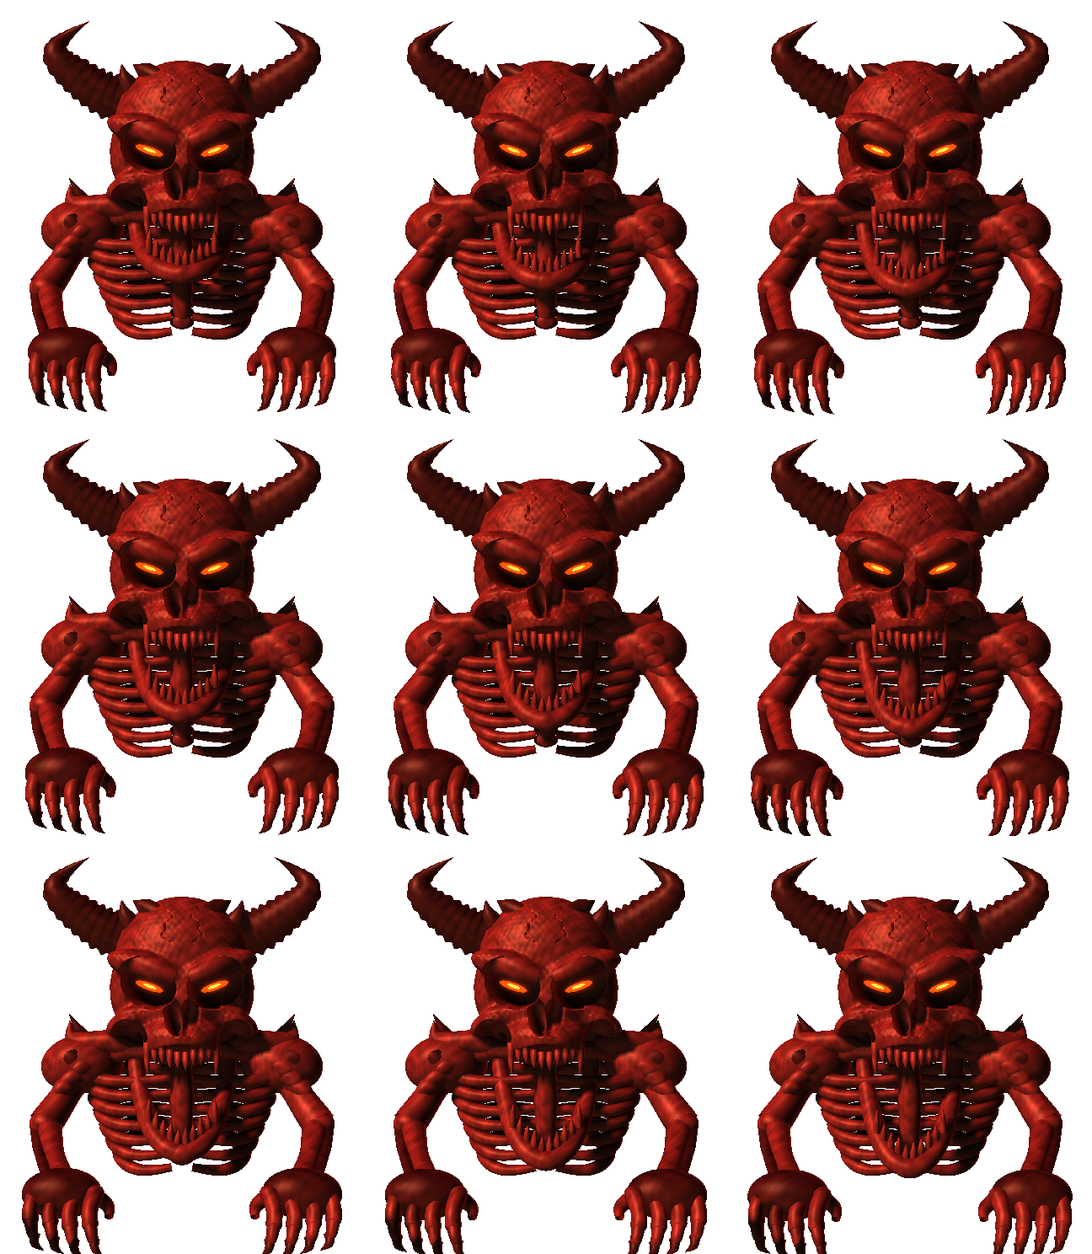
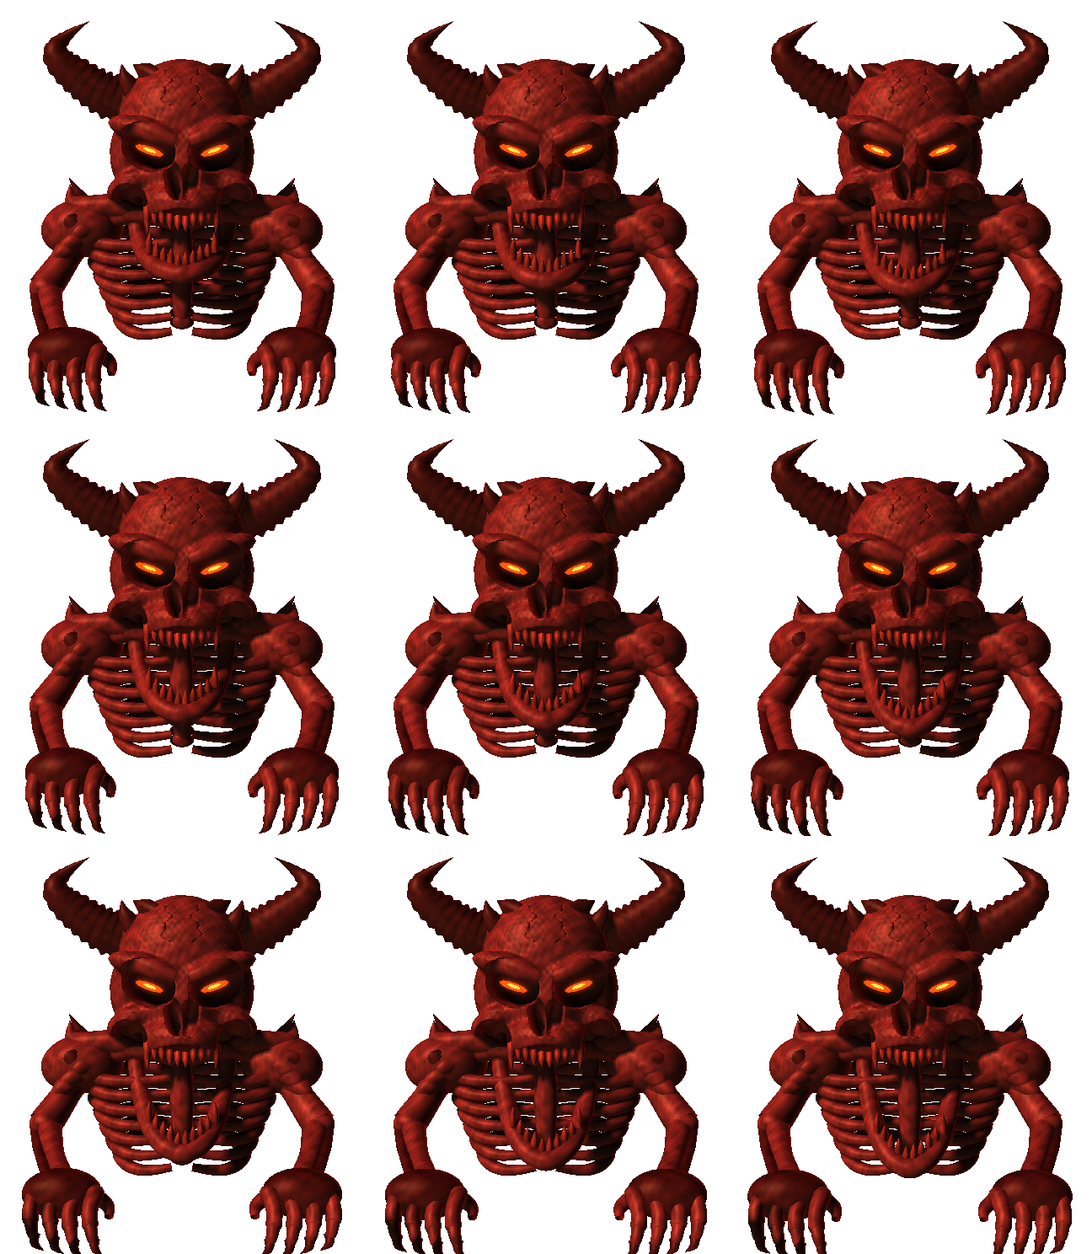
Refine console strip, Demon anatomy and tape detent selectors; clarify Hush noise limit

diff --git a/Source/PluginEditor.cpp b/Source/PluginEditor.cpp
@@ -121,7 +121,7 @@ void KnobCell::resized() {
         slider.setBounds((getWidth()-size)/2,0,size,size);return;
     }
     if(bool(slider.getProperties().getWithDefault("consoleCell",false))&&!compact_){
-        const int size=juce::jmax(1,juce::jmin(getWidth()-2,getHeight()-20,bool(slider.getProperties().getWithDefault("dopeRow",false))?72:43));
+        const int size=juce::jmax(1,juce::jmin(getWidth()-2,getHeight()-20,bool(slider.getProperties().getWithDefault("dopeRow",false))?72:bool(slider.getProperties().getWithDefault("sslGain",false))?49:43));
         slider.setBounds((getWidth()-size)/2,juce::jmax(0,(getHeight()-size-20)/2),size,size);return;
     }
     if(bool(slider.getProperties().getWithDefault("hushFader",false))&&!compact_){slider.setBounds(5,3,getWidth()-10,getHeight()-36);return;}
@@ -144,7 +144,7 @@ bool KnobCell::controlGeometryValid() const noexcept {
     if(b.isEmpty()||!getLocalBounds().contains(b))return false;
     if(bool(slider.getProperties().getWithDefault("sslAux",false)))return b.getWidth()==b.getHeight()&&b.getRight()+15<getWidth();
     if(bool(slider.getProperties().getWithDefault("sslSwitch",false)))return b.getWidth()==b.getHeight()&&b.getBottom()+10<=getHeight();
-    if(bool(slider.getProperties().getWithDefault("consoleCell",false)))return b.getWidth()==b.getHeight()&&b.getWidth()<=(bool(slider.getProperties().getWithDefault("dopeRow",false))?72:43)&&b.getBottom()+18<=getHeight();
+    if(bool(slider.getProperties().getWithDefault("consoleCell",false)))return b.getWidth()==b.getHeight()&&b.getWidth()<=(bool(slider.getProperties().getWithDefault("dopeRow",false))?72:bool(slider.getProperties().getWithDefault("sslGain",false))?49:43)&&b.getBottom()+18<=getHeight();
     if(bool(slider.getProperties().getWithDefault("hushFader",false))&&!compact_)return b.getBottom()+28<=getHeight();
     if(b.getWidth()!=b.getHeight())return false;
     if(compact_)return b.getWidth()<=48;
@@ -333,7 +333,7 @@ void SlotComponent::rebuild() {
             if((type==SkellDope||type==SkellMixHead||type==SkellDemon||type==SkellSSL)&&k.steps==2){
                 cell->slider.getProperties().set("colorSwitch",true);
                 cell->slider.getProperties().set("dopeSwitch",type==SkellDope);
-                if(type==SkellMixHead)cell->slider.getProperties().set("tapeToggle",true);
+                if(type==SkellMixHead)cell->slider.getProperties().set("tapeSelector",true);
                 cell->slider.getProperties().set("switchLabels",juce::String(k.names));
                 cell->slider.setTooltip("Click to switch mode");
                 cell->slider.setWantsKeyboardFocus(true);
@@ -343,19 +343,21 @@ void SlotComponent::rebuild() {
                 auto previous=cell->slider.onValueChange;
                 cell->slider.onValueChange=[this,previous]{if(previous)previous();repaint(mixHeadBadgeBounds(getWidth()));};
             }
-            if(type==SkellNoise&&j==1)cell->slider.setTooltip("Noise-floor ceiling: higher values suppress louder background noise; lower values preserve quieter detail. Amount sets reduction strength.");
+            if(type==SkellNoise&&j==1)cell->slider.setTooltip("Maximum tracked noise level in dB. Raise for louder background noise; lower to protect quiet vocal detail. Amount sets suppression strength.");
             if(type==SkellNoise&&j==2)cell->slider.setTooltip("Recovery time of the attenuation as signal level changes.");
             if(type==SkellNoise&&j==0){cell->slider.getProperties().set("hushFader",true);cell->slider.setSliderStyle(juce::Slider::LinearVertical);}
             if(type==SkellSSL){
                 cell->slider.getProperties().set("consoleCell",true);
                 if(k.steps==2)cell->slider.getProperties().set("sslSwitch",true);
-                if(extIndex==SslHMQ||extIndex==SslLMQ||extIndex==SslOutput)cell->slider.getProperties().set("sslAux",true);
+                if(extIndex==SslHMQ||extIndex==SslLMQ)cell->slider.getProperties().set("sslAux",true);
+                if(!ext&&j>=1&&j<=4)cell->slider.getProperties().set("sslGain",true);
                 // Restore shared rotating Skelliere skull cap; keep compact console geometry.
                 static const unsigned caps[]={0xffa5a79e,0xffa16b3e,0xff32698f,0xff3b7650,0xffa92c31,0xffbb393b};
                 unsigned cap=ext?0xffa5a6a0:caps[j];
                 if(extIndex==SslInput)cap=0xffb6443c;
                 if(extIndex==SslOutput)cap=0xffa9aaa5;
-                if(extIndex==SslHP||extIndex==SslLP)cap=0xff51865d;
+                if(extIndex==SslHP)cap=0xff51865d;
+                if(extIndex==SslLP)cap=0xffa16b3e;
                 if(extIndex==SslHFFreq||extIndex==SslHMFreq||extIndex==SslHMQ||extIndex==SslLMFreq||extIndex==SslLMQ||extIndex==SslLFFreq)cap=0xffa9aaa5;
                 if(extIndex==SslExpThreshold)cap=0xff41865b;
                 if(extIndex==SslThreshold)cap=0xffb63a33;
@@ -525,8 +527,8 @@ void SlotComponent::paintNativeFace(Graphics& g) {
         pg.addTransform(juce::AffineTransform::scale(float(rasterScale)));
         paintOriginalSurface(pg,getLocalBounds().toFloat(),type,nativeChoice);
         if(type==SkellSSL){
-            pg.setColour(Colour(0xff111514));pg.fillRect(juce::Rectangle<float>(10,25,float(w-20),43));
-            pg.setColour(Colour(0xffa8aba4).withAlpha(.32f));pg.drawHorizontalLine(68,10.f,float(w-10));
+            pg.setColour(Colour(0xff222625));pg.fillRect(juce::Rectangle<float>(9,25,float(w-18),43));
+            pg.setColour(Colour(0xffa8aba4).withAlpha(.32f));pg.drawHorizontalLine(68,9.f,float(w-9));
             paintMonogram(pg,Rectangle<float>(16,33,14,20),Colour(0xffe0ded2));
             pg.setColour(Colour(0xffe0ded2));pg.setFont(font(16.f,true).withExtraKerningFactor(.045f));pg.drawText("SSL STRIP",36,28,w-48,23,juce::Justification::centredLeft);
             pg.setColour(Colour(0xffaab1a9));pg.setFont(font(9.5f,true).withExtraKerningFactor(.14f));pg.drawText("SKELL / E-G CHANNEL",36,49,w-48,13,juce::Justification::centredLeft);
@@ -549,7 +551,7 @@ void SlotComponent::paintNativeFace(Graphics& g) {
         const auto layout=originalLayout(type,w,editing);
         if(!layout.detail.isEmpty()){if(type==SkellDemon)paintDemonDetail(pg,layout.detail.toFloat());else if(isAirPanel(type))paintAirDetail(pg,layout.detail.toFloat(),type);else if(type==Reverb||type==Chorus)paintSpaceDetail(pg,layout.detail.toFloat(),type);else if(type==Sat||type==SoftClip||type==Eq||type==Tremolo||type==Phaser||type==Stereo||type==Transient)paintWorkshopDetail(pg,layout.detail.toFloat(),type);else paintTapeDetail(pg,layout.detail.toFloat(),type==Delay&&nativeChoice==1);}
         if(type==SkellSSL){
-            const int split=w*48/100,left=9,right=split+5,lw=split-13,rw=w-right-9;
+            const int split=w*49/100,left=9,right=split+5,lw=split-13,rw=w-right-9;
             const auto console=Rectangle<float>(8,75,float(w-16),float(tallPanelY(548)-75));
             pg.setGradientFill(juce::ColourGradient::vertical(Colour(0xff292c2d),console.getY(),Colour(0xff15191a),console.getBottom()));pg.fillRect(console);
             paintPeened(pg,console,.62f);
@@ -557,8 +559,8 @@ void SlotComponent::paintNativeFace(Graphics& g) {
             pg.setColour(Colour(0xff121715));pg.drawVerticalLine(split,75,tallPanelY(548));
             pg.setColour(Colour(0xff6c7169).withAlpha(.55f));pg.drawVerticalLine(split+1,75,tallPanelY(548));
             auto section=[&](int x,int y,int ww,const char* label){
-                y=tallPanelY(y);pg.setColour(Colour(0xff080b09).withAlpha(.66f));pg.fillRect(x,y,ww,14);pg.drawHorizontalLine(y,float(x),float(x+ww));
-                pg.setColour(Colour(0xffc5c8bb).withAlpha(.36f));pg.drawHorizontalLine(y+1,float(x),float(x+ww));
+                y=tallPanelY(y);pg.setColour(Colour(0xff121615));pg.drawHorizontalLine(y,float(x),float(x+ww));
+                pg.setColour(Colour(0xffc5c8bb).withAlpha(.58f));pg.drawHorizontalLine(y+1,float(x),float(x+ww));
                 pg.setColour(Colour(0xfff2f0e5));pg.setFont(font(9.3f,true).withExtraKerningFactor(.035f));
                 pg.drawFittedText(label,Rectangle<int>(x+2,y+2,ww-4,15),juce::Justification::centredLeft,1);
             };

diff --git a/Source/OriginalPanel.h b/Source/OriginalPanel.h
@@ -49,7 +49,7 @@ inline OriginalLayout originalLayoutBase(int type,int width,bool editing=false) 
     if(type==SkellSSL){
         // Reference console proportions: a compact left dynamics lane and a
         // slightly wider four-band EQ lane. Preserve all 27 host attachments.
-        const int split=width*48/100,left=9,right=split+5;
+        const int split=width*49/100,left=9,right=split+5;
         const int lw=split-13,rw=width-right-9;
         auto row=[&](int x,int w,int y,int h,std::initializer_list<int> ids){const int n=int(ids.size());int i=0;for(int j:ids){const int a=i*w/n,b=(i+1)*w/n;l.cells[j]={x+a,y,b-a,h};++i;}};
         auto e=[](int i){return kMaxKnobs+i;};
@@ -59,12 +59,12 @@ inline OriginalLayout originalLayoutBase(int type,int width,bool editing=false) 
         row(left,lw,305,46,{e(SslRelease),5,e(SslFast)});
         row(left,lw,370,54,{e(SslExpThreshold),e(SslExpRange)});
         row(left,lw,426,46,{e(SslExpRelease),e(SslGate)});
-        l.cells[e(SslOutput)]={left,491,lw,38};
+        l.cells[e(SslOutput)]={left,491,lw,editing?38:45};
         auto band=[&](int y,int gain,int freq,int shape){
             const int g=rw*48/100;
             l.cells[gain]={right,y+9,g,61};
             l.cells[freq]={right+g,y,rw-g,40};
-            l.cells[shape]={right+g,y+41,rw-g,32};
+            l.cells[shape]={right+g,y+40,rw-g,30};
         };
         band(100,4,e(SslHFFreq),e(SslHFBell));
         band(184,3,e(SslHMFreq),e(SslHMQ));
@@ -421,7 +421,7 @@ inline void paintTapeDetail(Graphics& g,juce::Rectangle<float> r,bool useReferen
 }
 inline void paintDemonVectorFallback(Graphics& g,juce::Rectangle<float> r,float phase=0,float level=0,bool frame=true){
     // Raise the lip to the lower chest rather than lengthening the rib cage.
-    const auto win=r.withTrimmedBottom(46.f);
+    const auto win=r.withTrimmedBottom(46.f).withTrimmedTop(9.f);
     if(frame)paintHardwarePlate(g,win,Colour(0xff341218),false,6.f,3.f);
     auto a=win.reduced(5.f);juce::Graphics::ScopedSaveState clip(g);g.reduceClipRegion(r.toNearestInt());
     g.setGradientFill(juce::ColourGradient(Colour(0xff69120d),a.getCentreX(),a.getY()+a.getHeight()*.38f,Colour(0xff130407),a.getRight(),a.getBottom(),true));g.fillRoundedRectangle(a,4);
@@ -491,7 +491,7 @@ inline const juce::Image& infernalBackdrop();
 inline void paintDemonDetail(Graphics& g,juce::Rectangle<float> r,float phase=0,float level=0,bool frame=true){
     if(!demonReliefIsValid()){paintDemonVectorFallback(g,r,phase,level,frame);return;}
     // Raise the lip to the lower chest rather than lengthening the rib cage.
-    const auto win=r.withTrimmedBottom(46.f);const auto a=win.reduced(5.f);
+    const auto win=r.withTrimmedBottom(46.f).withTrimmedTop(9.f);const auto a=win.reduced(5.f);
     if(frame){
         paintHardwarePlate(g,win,Colour(0xff381c16),false,6.f,3.f);
         g.setColour(Colour(0xffbd8150).withAlpha(.78f));g.drawRoundedRectangle(win.reduced(2.f),4.f,.9f);
@@ -507,7 +507,7 @@ inline void paintDemonDetail(Graphics& g,juce::Rectangle<float> r,float phase=0,
         for(int i=0;i<28;++i){const float x=a.getX()+float((i*43)%100)*a.getWidth()/100.f,y=a.getBottom()-std::fmod(i*23.f+phase*12.f,a.getHeight());g.setColour(Colour(0xffff7031).withAlpha(.15f+.19f*level));g.fillEllipse(x,y,1.1f,2.8f);}
     }
     const int index=juce::jlimit(0,8,int(std::round(8.f*juce::jlimit(0.f,1.f,.5f+.43f*std::sin(phase*2.7f-.7f)+.12f*level))));
-    const auto& atlas=demonReliefAtlas();const float dw=r.getWidth()+16.f,dh=dw*496.f/432.f;const auto dst=juce::Rectangle<float>(r.getCentreX()-dw*.5f,r.getBottom()-dh-9.f,dw,dh);g.setImageResamplingQuality(juce::Graphics::highResamplingQuality);g.setOpacity(1.f);
+    const auto& atlas=demonReliefAtlas();const float dw=r.getWidth()+19.f,dh=dw*496.f/432.f;const auto dst=juce::Rectangle<float>(r.getCentreX()-dw*.5f,r.getBottom()-dh-7.f,dw,dh);g.setImageResamplingQuality(juce::Graphics::highResamplingQuality);g.setOpacity(1.f);
     g.drawImage(atlas, dst.getX(),dst.getY(),dst.getWidth(),dst.getHeight(),(index%3)*432,(index/3)*496,432,496);
 }
 // Distinct patina/finish per module. Static faceplate cache only, no audio dependency.
@@ -555,7 +555,7 @@ inline const juce::Image& infernalBackdrop(){
         auto hash=[](int x,int y){unsigned v=unsigned(x)*0x9e3779b9u+unsigned(y)*0x85ebca6bu+0xf41e2u;v^=v>>16;v*=0x7feb352du;v^=v>>15;return float(v&65535u)/65535.f;};
         auto field=[&](float x,float y){const int i=int(std::floor(x)),j=int(std::floor(y));float a=x-i,b=y-j;a=a*a*(3-2*a);b=b*b*(3-2*b);return (hash(i,j)*(1-a)+hash(i+1,j)*a)*(1-b)+(hash(i,j+1)*(1-a)+hash(i+1,j+1)*a)*b;};
         auto fbm=[&](float x,float y){float n=0,amp=.54f;for(int k=0;k<7;++k){n+=amp*field(x,y);x=x*2.04f+17.f;y=y*2.03f+5.f;amp*=.49f;}return n;};
-        juce::Image::BitmapData px(im,juce::Image::BitmapData::writeOnly);for(int y=0;y<h;++y)for(int x=0;x<w;++x){const float u=float(x)/w,v=float(y)/h,warp=fbm(u*4+12,v*5+3);const float n=fbm(u*6+warp*2,v*8+warp*3),n2=fbm(u*17+warp*4,v*19+warp*4);float flame=metal::sat((fbm(u*8+warp*3,v*3.2f+warp*2)-.39f)*3.2f);float light=metal::sat((n-.25f)*1.9f+.36f*flame);float fissure=std::exp(-80.f*std::abs(n2-.51f));float halo=std::exp(-4.2f*((u-.5f)*(u-.5f)+(v-.5f)*(v-.5f)));auto c=Colour(0xff100205).interpolatedWith(Colour(0xffe3370c),metal::sat(light*halo+.23f*fissure));c=c.interpolatedWith(Colour(0xffff9827),metal::sat(fissure*.30f*halo+flame*.20f*(.4f+.6f*v)));px.setPixelColour(x,y,c);}return im;}();return image;
+        juce::Image::BitmapData px(im,juce::Image::BitmapData::writeOnly);for(int y=0;y<h;++y)for(int x=0;x<w;++x){const float u=float(x)/w,v=float(y)/h,warp=fbm(u*4+12,v*5+3);const float n=fbm(u*6+warp*2,v*8+warp*3),n2=fbm(u*17+warp*4,v*19+warp*4);float flame=metal::sat((fbm(u*10+warp*4,v*2.3f+warp*2)-.36f)*3.5f);float light=metal::sat((n-.25f)*1.9f+.36f*flame);float fissure=std::exp(-105.f*std::abs(n2-.51f));float halo=std::exp(-4.2f*((u-.5f)*(u-.5f)+(v-.5f)*(v-.5f)));auto c=Colour(0xff100205).interpolatedWith(Colour(0xffe3370c),metal::sat(light*halo+.12f*fissure));c=c.interpolatedWith(Colour(0xffff9827),metal::sat(fissure*.14f*halo+flame*.30f*(.4f+.6f*v)));px.setPixelColour(x,y,c);}return im;}();return image;
 }
 inline void paintOriginalSurface(Graphics& g,juce::Rectangle<float> r,int type,int finish) {
     const auto p=originalSpec(type,finish);

diff --git a/tools/render_demon_relief.py b/tools/render_demon_relief.py
@@ -74,16 +74,16 @@ def skull_mesh(mesh):
         return (np.sqrt((a/r[0])**2+(b/r[1])**2+(d/r[2])**2)-1)*min(r)
     def union(a,b,k=.045):
         h=np.maximum(k-np.abs(a-b),0)/k;return np.minimum(a,b)-h*h*k*.25
-    s=e((0,.47,.08),(.48,.415,.35))
-    s=union(s,e((0,.20,.19),(.345,.29,.30)))
+    s=e((0,.47,.08),(.455,.425,.35))
+    s=union(s,e((0,.20,.19),(.33,.285,.30)))
     s=union(s,e((0,.64,.19),(.115,.15,.16)),.035)
     s=union(s,e((0,-.018,.335),(.295,.145,.23)))
     for side in (-1,1):
-        s=union(s,e((side*.345,.095,.24),(.184,.081,.185),-side*.42))
-        s=union(s,e((side*.235,.405,.35),(.267,.096,.155),side*.24),.025)
+        s=union(s,e((side*.345,.095,.24),(.178,.087,.185),-side*.42))
+        s=union(s,e((side*.235,.405,.35),(.258,.082,.155),side*.24),.025)
         s=union(s,e((side*.365,.29,.09),(.145,.24,.24)),.03)
         # Outer edge of the orbit higher, inner lower: threatening brow.
-        s=np.maximum(s,-e((side*.228,.305,.445),(.196,.146,.40),side*.32))
+        s=np.maximum(s,-e((side*.228,.305,.445),(.192,.137,.40),side*.32))
         s=np.maximum(s,-e((side*.345,-.015,.415),(.132,.104,.245),side*.30))
         s=np.maximum(s,-e((side*.048,.105,.487),(.062,.12,.205),-side*.24))
     s=np.maximum(s,-e((0,-.188,.53),(.29,.138,.27)))
@@ -146,7 +146,7 @@ def build_static():
     for side in (-1,1):
         # Small hot eyes deep inside true sockets.
         # Sharply angled heavy brows and thin molten slits, not round pupils.
-        tube(m,[(side*.055,.342,.438),(side*.18,.386,.445),(side*.315,.435,.375),(side*.435,.412,.25)],[.048,.071,.077,.031],0,25,18)
+        tube(m,[(side*.055,.342,.438),(side*.18,.386,.445),(side*.315,.435,.375),(side*.435,.412,.25)],[.044,.064,.069,.031],0,25,18)
         ellipsoid(m,(side*.222,.300,.275),(.098,.024,.028),1,side*.30)
         ellipsoid(m,(side*.217,.299,.302),(.046,.010,.013),4,side*.30)
         # Sharper zygomatic spurs and brow ridge, receding in the temple.
@@ -157,7 +157,7 @@ def build_static():
     # Upper teeth along a curved dental arch; long outer canines.
     for i in range(10):
         x=(i-4.5)*.050;z=.520-.095*(abs(x)/.225)**1.5;y=-.106+.014*abs(i-4.5)
-        l=.185 if i in (0,9) else .086+.014*(i%2)
+        l=.151 if i in (0,9) else .075+.009*(i%2)
         tube(m,[(x,y,z),(x,y-l*.53,z+.014),(x*.98,y-l,z+.002)],[.027,.022,.004],2,10,12)
     # Bring the skull toward the listener; keep the horns anchored to the cranium.
     for k in range(head_start,len(m.v)):
@@ -177,7 +177,7 @@ def add_jaw(m,open_amt):
     ellipsoid(m,pose((0,-.423,.53)),(.10,.063,.059),0)
     for i in range(10):
         x=(i-4.5)*.047;z=.523-.085*(abs(x)/.22)**1.4;y=-.386+.018*abs(i-4.5)
-        l=.13 if i in (0,9) else .077+.012*(i%2)
+        l=.113 if i in (0,9) else .069+.009*(i%2)
         tube(m,[pose((x,y,z)),pose((x,y+l*.52,z+.008)),pose((x*.98,y+l,z+.001))],[.026,.022,.004],2,10,12)
 
 def add_hands(m,amt):
@@ -242,11 +242,13 @@ def render(mesh):
     # Pitted, ridged bone rather than polished plastic. Multi-frequency material
     # variation is spatially stable over all nine animation frames.
     pore=np.sin(pp[:,0]*113+np.sin(pp[:,1]*57))*np.sin(pp[:,1]*127+np.sin(pp[:,2]*63))*np.sin(pp[:,2]*131+pp[:,0]*61)
-    texture=.83+.10*np.sin(pp[:,0]*39+2*np.sin(pp[:,1]*31)+np.sin(pp[:,2]*45))+.065*np.sin(pp[:,1]*59+2*np.sin(pp[:,2]*36+pp[:,0]*23))+.046*np.sin(pp[:,2]*140+pp[:,0]*97)-.12*np.maximum(pore,0)**3
-    colors=np.array([[.52,.070,.051],[1.0,.14,.008],[.66,.108,.064],[.24,.025,.020],[1.,.58,.12]])[mat[mask]]
+    texture=.80+.10*np.sin(pp[:,0]*39+2*np.sin(pp[:,1]*31)+np.sin(pp[:,2]*45))+.065*np.sin(pp[:,1]*59+2*np.sin(pp[:,2]*36+pp[:,0]*23))+.046*np.sin(pp[:,2]*140+pp[:,0]*97)-.16*np.maximum(pore,0)**3
+    colors=np.array([[.49,.085,.065],[1.0,.14,.008],[.66,.108,.064],[.24,.025,.020],[1.,.58,.12]])[mat[mask]]
+    vein=np.exp(-22*np.abs(np.sin(pp[:,0]*21+pp[:,1]*14+2.5*np.sin(pp[:,2]*17+pp[:,1]*8))))
+    texture*=1-.09*vein
     rgb=colors*texture[:,None]*(.035+1.28*D[:,None]*vis[:,None])
     rgb+=np.array([.54,.067,.035])*rim[:,None]*(.45+.55*fres[:,None])
-    rgb+=np.array([.96,.56,.35])*spec[:,None]*(.18+.12*texture[:,None])
+    rgb+=np.array([.96,.56,.35])*spec[:,None]*(.11+.10*texture[:,None])
     # Subtle warm bounce from the crimson enclosure and cold upper-edge reflection.
     rgb+=np.array([.14,.052,.032])*np.maximum(N@np.array([-.38,-.26,.72]),0)[:,None]*(.45+.55*texture[:,None])
     # Subtle red up-light, keeps shadows deep rather than flattening into orange.

diff --git a/Source/Look.h b/Source/Look.h
@@ -659,23 +659,22 @@ public:
             g.setColour(Colour(0xfffbf7dd).withAlpha(.7f));g.drawHorizontalLine(int(key.getY()+1),key.getX()+2,key.getRight()-2);
             g.setColour(Colour(0xff151b18));g.setFont(font(juce::jlimit(8.f,10.f,size*.23f),true));g.drawFittedText(names[p>=.5f?1:0],key.toNearestInt(),juce::Justification::centred,1);return;
         }
-        if(bool(s.getProperties().getWithDefault("tapeToggle",false))){
-            // Recessed two-position tape lever: real selected state, separate
-            // detent witness lights and a machined paddle over the pivot.
-            const bool on=p>=.5f;auto mount=Rectangle<float>(cx-size*.36f,cy-size*.38f,size*.72f,size*.76f);
-            paintHardwarePlate(g,mount,Colour(0xff453b32),false,4.f,2.f);
-            paintRecessedWindow(g,mount.reduced(3.f),2.f);
-            for(int i=0;i<2;++i){const float yy=cy+(i?1.f:-1.f)*size*.23f;auto col=(i==int(on)?Colour(0xffffbc50):Colour(0xff59472d));g.setColour(col);g.fillEllipse(cx-size*.22f-2,yy-2,4,4);}
-            const auto pivot=Rectangle<float>(cx-size*.12f,cy-size*.12f,size*.24f,size*.24f);
-            g.setGradientFill(juce::ColourGradient::vertical(Colour(0xffc5b79d),pivot.getY(),Colour(0xff36302b),pivot.getBottom()));g.fillEllipse(pivot);
-            juce::Graphics::ScopedSaveState leverState(g);g.addTransform(juce::AffineTransform::rotation(on?2.68f:-.46f,cx,cy));
-            auto shaft=Rectangle<float>(cx-size*.065f,cy-size*.27f,size*.13f,size*.32f);
-            g.setColour(juce::Colours::black.withAlpha(.85f));g.fillRoundedRectangle(shaft.translated(1.4f,2.f),2.f);
-            g.setGradientFill(juce::ColourGradient(Colour(0xffe1d4b6),shaft.getX(),shaft.getY(),Colour(0xff62584a),shaft.getRight(),shaft.getY(),false));g.fillRoundedRectangle(shaft,1.4f);
-            auto paddle=Rectangle<float>(cx-size*.17f,cy-size*.33f,size*.34f,size*.19f);
-            g.setColour(juce::Colours::black.withAlpha(.8f));g.fillRoundedRectangle(paddle.translated(1.5f,2.f),2.f);
-            g.setGradientFill(juce::ColourGradient::vertical(Colour(0xff666762),paddle.getY(),Colour(0xff171817),paddle.getBottom()));g.fillRoundedRectangle(paddle,2.f);
-            g.setColour(Colour(0xffc4c1b3).withAlpha(.72f));g.drawRoundedRectangle(paddle,2.f,.7f);for(int i=1;i<4;++i){g.setColour(Colour(0xff0b0b0a));g.drawHorizontalLine(int(paddle.getY()+i*paddle.getHeight()/4),paddle.getX()+3,paddle.getRight()-3);}return;
+        if(bool(s.getProperties().getWithDefault("tapeSelector",false))){
+            // Original tape-machine rotary detent. Keep the two existing host
+            // values and click/keyboard behavior; the pointer never interpolates.
+            const bool on=p>=.5f; const float rad=size*.31f;
+            const auto well=Rectangle<float>(cx-rad-5,cy-rad-5,2*rad+10,2*rad+10);
+            g.setColour(Colour(0xff120e0b));g.fillEllipse(well.translated(1,2));
+            g.setGradientFill(juce::ColourGradient::vertical(Colour(0xffc6b6a1),well.getY(),Colour(0xff403b34),well.getBottom()));g.fillEllipse(well);
+            g.setColour(Colour(0xff171814));g.fillEllipse(well.reduced(2));
+            const auto cap=Rectangle<float>(cx-rad,cy-rad,2*rad,2*rad);
+            g.setGradientFill(juce::ColourGradient::vertical(Colour(0xff62635f),cap.getY(),Colour(0xff121311),cap.getBottom()));g.fillEllipse(cap);
+            for(int i=0;i<24;++i){const float a=i*juce::MathConstants<float>::twoPi/24.f;g.setColour(Colour(0xff050605).withAlpha(.8f));g.drawLine(cx+std::sin(a)*rad*.83f,cy-std::cos(a)*rad*.83f,cx+std::sin(a)*rad,cy-std::cos(a)*rad,.8f);}
+            g.setColour(Colour(0xffa7a396));g.drawEllipse(cap.reduced(1),.65f);
+            const float detent=on?.78f:-.78f;
+            for(int i=0;i<2;++i){float a=i?.78f:-.78f;g.setColour(i==int(on)?Colour(0xffffcb79):Colour(0xff766b5b));g.fillEllipse(cx+std::sin(a)*(rad+7)-1.5f,cy-std::cos(a)*(rad+7)-1.5f,3,3);}
+            juce::Graphics::ScopedSaveState saved(g);g.addTransform(juce::AffineTransform::rotation(detent,cx,cy));
+            auto bar=Rectangle<float>(cx-3,cy-rad*.81f,6,rad*.77f);g.setColour(Colour(0xff131410));g.fillRoundedRectangle(bar.expanded(1),1.5f);g.setGradientFill(juce::ColourGradient::vertical(Colour(0xfffaf1dc),bar.getY(),Colour(0xff998976),bar.getBottom()));g.fillRoundedRectangle(bar,1.2f);return;
         }
         if(bool(s.getProperties().getWithDefault("colorSwitch",false))){
             const bool isDope=bool(s.getProperties().getWithDefault("dopeSwitch",false));

diff --git a/Source/Modules.h b/Source/Modules.h
@@ -116,8 +116,8 @@ inline const ModuleInfo& info(int type) {
          {{"Pitch",-12,12,false,0,Unit::Scalar,0,nullptr},{"Formant",-12,12,false,0,Unit::Scalar,0,nullptr},{"Link",0,1,false,0,Unit::Steps,2,"Off,On"},{"Mode",0,2,false,0,Unit::Steps,3,"Shift,Quant,Robot"},{"Drive",0,10,false,0,Unit::Scalar,0,nullptr},{"Mix",0,1,false,1,Unit::Pct,0,nullptr}},3,{{"Voice",0,2},{"Mode",2,2},{"Color",4,2}},false},
         {"SSL Strip","Measured E/G channel","Recovered E/G console: variable four-band EQ, filters, gain, compressor and gate/expander. COMP retains the original macro.",CatTone,6,
          {{"Circuit",0,1,false,0,Unit::Steps,2,"E,G"},{"LF",-12,12,false,0,Unit::Db,0,nullptr},{"LM",-12,12,false,0,Unit::Db,0,nullptr},{"HM",-12,12,false,0,Unit::Db,0,nullptr},{"HF",-12,12,false,0,Unit::Db,0,nullptr},{"Comp",0,1,false,0,Unit::Pct,0,nullptr}},3,{{"Circuit",0,1},{"EQ",1,4},{"Dyn",5,1}},true},
-        {"Hush","Adaptive noise reduction","Adaptive four-band suppression. Floor sets the upper bound of the tracked noise estimate; Release controls recovery.",CatUtility,3,
-         {{"Amount",0,1,false,.35f,Unit::Pct,0,nullptr},{"Floor",-72,-24,false,-48,Unit::Db,0,nullptr},{"Release",25,500,true,120,Unit::Ms,0,nullptr}},2,{{"Suppress",0,1},{"Control",1,2}},true}
+        {"Hush","Adaptive noise reduction","Adaptive four-band suppression. Noise Limit sets the upper bound of the tracked noise estimate; Release controls recovery.",CatUtility,3,
+         {{"Amount",0,1,false,.35f,Unit::Pct,0,nullptr},{"Noise Limit",-72,-24,false,-48,Unit::Db,0,nullptr},{"Release",25,500,true,120,Unit::Ms,0,nullptr}},2,{{"Suppress",0,1},{"Control",1,2}},true}
     };
     return table[std::clamp(type,0,static_cast<int>(kNumRackTypes)-1)];
 }
